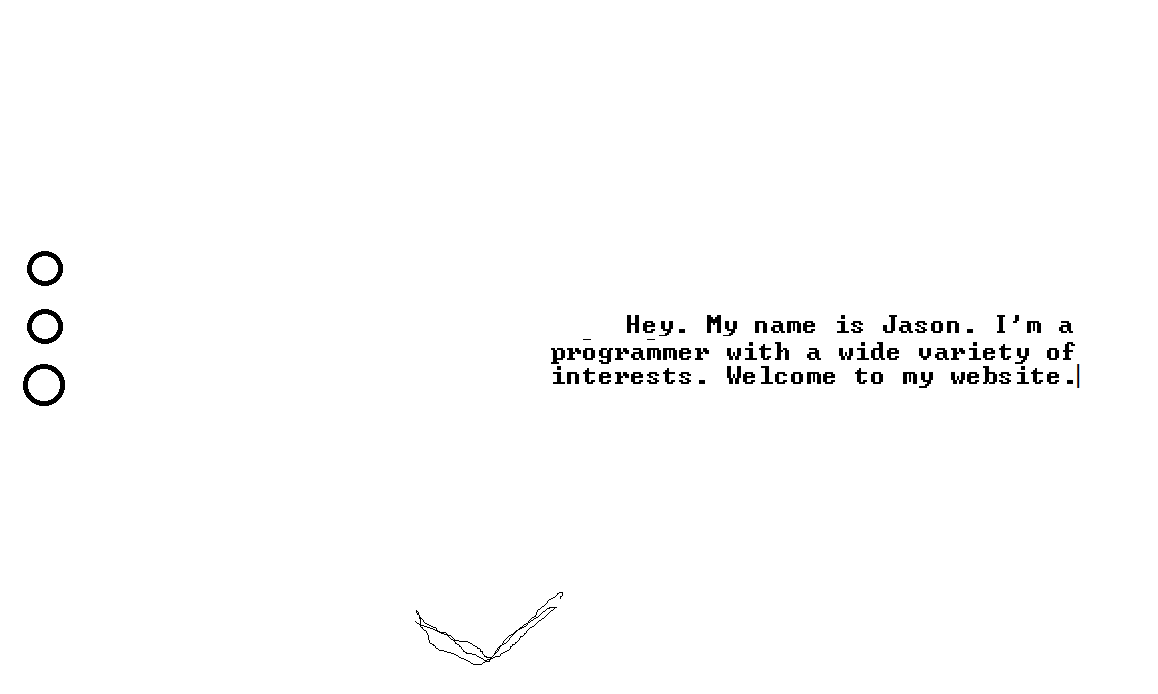
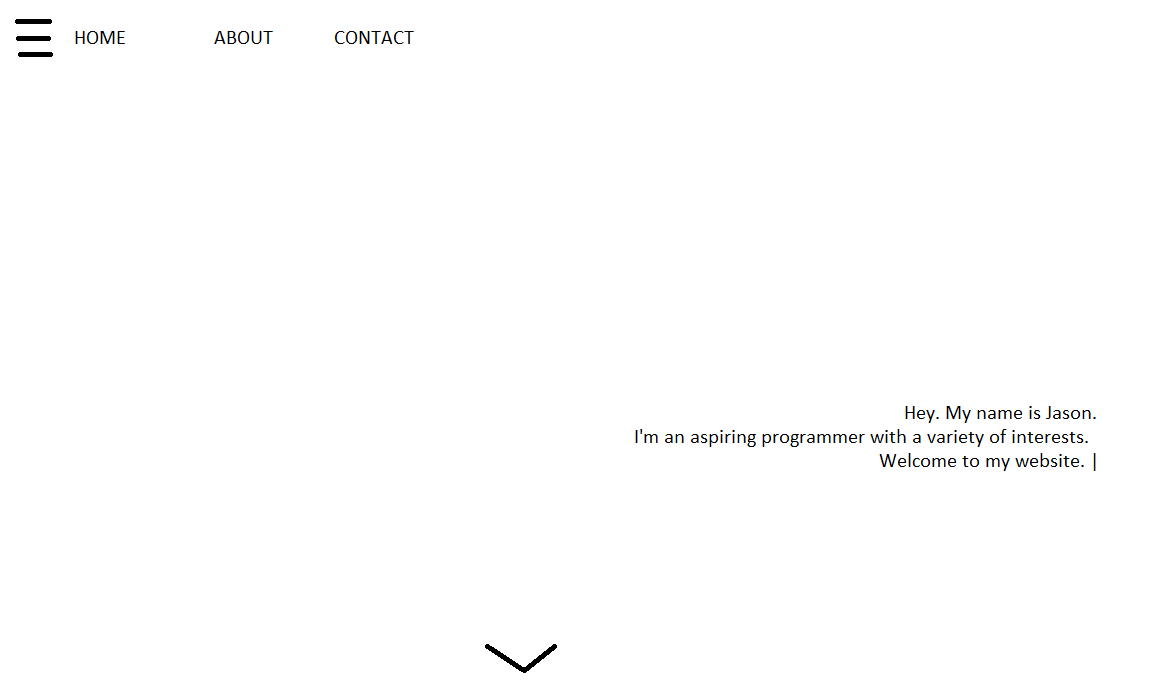
Began implementation of 'About Me' page

diff --git a/assets/script.js b/assets/script.js
@@ -1,6 +1,6 @@
 $(document).ready(function(){
 
-	// // //Chevron animation for the landing page.
+	//Chevron animation for the landing page.
 	setTimeout(function() {
 		$('.down-arrow').show();
 		$('.down-arrow').animate({opacity: 0.5},'slow');
@@ -17,17 +17,114 @@ $(document).ready(function(){
 				
 			}
 		});
-	},1500);
 
+		$('#about-footer').hover(function() {
+			if ($('.down-arrow').hasClass('down-arrow-active')) {
+				$('.down-arrow').removeClass('down-arrow-active');
+				$('.down-arrow').animate({opacity: 0.5},'fast');
+			} else {
+				setTimeout(function() {
+					$('.down-arrow').addClass('down-arrow-active');
+					$('.down-arrow').animate({opacity: 1.0},'fast');
+				},0);
+				
+			}
+		});
+	},500);
+
+	//Animation for footers
 	$('#landing-footer').click(function() {
 		$('html,body').animate({
 	       scrollTop: $('#about-container').offset().top
+	    }, 500);
+	});
+	$('#about-footer').click(function() {
+		$('html,body').animate({
+	       scrollTop: $('#experience-container').offset().top
+	    }, 500);
+	});
+	$('#experience-footer').click(function() {
+		$('html,body').animate({
+	       scrollTop: $('#contact-container').offset().top
+	    }, 500);
+	});
+	$('#contact-footer').click(function() {
+		$('html,body').animate({
+	       scrollTop: 0
 	    }, 500);
 	});
 
 	//Animate the text for the landing page.
 	var text = "Hey. My name is Jason.  <br />I'm an aspiring programmer with a variety of interests.  <br />Welcome to my website.  <br /> ";
 	animate_typed_text('#landing-text',text);
+
+	//Change the text of the boxes on the about page.
+	var cw = $('.about-box').height();
+	$('.about-box').css({'width':cw+'px'});
+
+	$('#about-box-ed').hover(function() {
+		$('#about-ed').text("Education");
+	});
+
+	$('#about-box-projs').hover(function() {
+		$('#about-projs').text("Projects");
+	});
+
+	$('#about-box-interests').hover(function() {
+		$('#about-interests').text("Interests");
+	});
+
+	$('#about-box-me').hover(function() {
+		$('#about-me').text("Me");
+	});
+
+	//Expand the "About" screen on click.
+	$('.about-box').click(function() {
+		console.log($(this).hasClass('.about-box-active'));
+		if ($('#about-top').css('margin-top') == "0px") {
+			//Not working
+			if ($(this).hasClass('.about-box-active')) {
+				$(this).removeClass('.about-box-active');
+			}
+			$('#about-expand').animate({opacity: 0.0},'slow');
+
+			setTimeout(function() {
+				$('#about-header').animate({opacity: 1.0},'slow');
+				$('#about-expand').hide();
+				$('#about-footer').show();
+				$('#about-footer').animate({opacity: 1.0},'slow');
+			},1000);
+			$('#about-top').animate({"margin-top": "9%"},'slow');
+			$('#about-bottom').animate({"margin-bottom":"9%"},'slow');	
+		} else {
+			//Not working
+			if (!$(this).hasClass('.about-box-active')) {
+				$(this).addClass('.about-box-active');
+			}
+			$('#about-top').animate({"margin-top": 0},'slow');
+			$('#about-bottom').animate({"margin-bottom":0},'slow');
+			$('#about-footer').animate({opacity: 0.0},'fast');
+			setTimeout(function() {
+				$('#about-header').animate({opacity: 0.0},'slow');
+				$('#about-expand').show();
+				$('#about-expand').animate({opacity: 1.0},'slow');
+				$('#about-footer').hide();
+			},1000);
+		}
+	});
+
+	$('#about-expand').click(function() {
+		if ($(this).hasClass('.about-box-active')) {
+			$(this).removeClass('.about-box-active');
+		}
+		$('#about-expand').animate({opacity: 0.0},'slow');
+		setTimeout(function() {
+			$('#about-header').animate({opacity: 1.0},'slow');
+			$('#about-expand').hide();
+		},1000);
+		$('#about-top').animate({"margin-top": "9%"},'slow');
+		$('#about-bottom').animate({"margin-bottom":"9%"},'slow');
+	});
 });
 
 function animate_typed_text(div,text) {

diff --git a/assets/style.css b/assets/style.css
@@ -14,12 +14,12 @@ background: #f7f5f2;
 
 #landing-text {
 	float: right;
-	width: 50%;
+	width: 100%;
 	text-align: right;
 	position: absolute;
-	right: 2.5%;
-	top: calc(50% - 80px);
-	font-size: 24px;
+	right: 15%;
+	top: calc(60% - 80px);
+	font-size: 36px;
 	white-space: pre;
 }
 
@@ -37,7 +37,7 @@ background: #f7f5f2;
 .down-arrow {
 	padding-left: 40%;
 	padding-right: 40%;
-	padding-top: 10%;
+	padding-top: 7.5%;
 	transition: 1s;
 	opacity: 0;
 	float: bottom;
@@ -54,8 +54,135 @@ background: #f7f5f2;
 /* CSS attributes for the about page--the seocnd page that is accessed. */
 #about-container {
 	display: inline-block;
-	height: 80%;
-	width: 80%;
+	position: relative;
+	height: 100%;
+	width: 100%;
 	background: #ffffff;
-	padding: 10%;
+}
+
+#about-header {
+	display: inline-block;
+	text-align: center;
+	margin-top: 1%;
+	height: 2%;
+	width: 100%;
+	font-size: 24px;
+}
+
+#about-top {
+	display: inline-block;
+	text-align: center;
+	margin-top: 9%;
+	height: 30%;
+	width: 100%;
+	padding-bottom: 1%;
+	transition: 1s;
+}
+
+#about-expand {
+	display: none;
+	width: 100%;
+	height: 30%;
+	opacity: 0.0;
+	background: #f7f5f2;
+}
+
+#about-bottom {
+	display: inline-block;
+	position: absolute;
+	text-align: center;
+	height: 30%;
+	margin-bottom: 7.5%;
+	width: 100%;
+	padding-top: 1%;
+	bottom: 0;
+	float: bottom;
+	transition: 1s;
+}
+
+.about-box {
+	display: inline-block;
+	position: relative;
+	text-align: center;
+	top: calc(50% - 130	px);
+	height: 90%;
+	margin-left: 2%;
+	margin-right: 2%;
+	transition: 1s;
+	cursor: pointer;
+}
+
+/* CSS attribute that forces a 1:1 aspect ratio for the about-box. */
+.about-box:before {
+	content: "";
+	display: block;
+	padding-top: 100%;
+	background: #000;
+}
+
+.about-box:hover {
+	opacity: 0.5 !important;
+	color: #ffffff !important;
+}
+
+.about-box-active {
+	opacity: 0.5;
+	color: #ffffff;
+}
+
+.content {
+	position: absolute;
+	top: calc(50% - 5px);
+	left: 0;
+	bottom: calc(50% + 5px);
+	right: 0;
+}
+
+#about-footer {
+	position: absolute;
+	width: 100%;
+	height: 20%;
+	text-align: center;
+	bottom: 0;
+	z-index: 100;
+	transition: 1s;
+	cursor: pointer;
+}
+
+/* CSS attributes for the experience page. */
+#experience-container {
+	display: inline-block;
+	position: relative;
+	height: 100%;
+	width: 100%;
+}
+
+#experience-footer {
+	position: absolute;
+	width: 100%;
+	height: 20%;
+	text-align: center;
+	bottom: 0;
+	z-index: 100;
+	transition: 1s;
+	cursor: pointer;
+}
+
+#contact-container {
+	display: inline-block;
+	position: relative;
+	height: 100%;
+	width: 100%;
+	background: #ffffff;
+}
+
+#contact-footer {
+	position: absolute;
+	width: 100%;
+	height: 20%;
+	text-align: center;
+	bottom: 0;
+	z-index: 100;
+	transition: 1s;
+	cursor: pointer;
 }

diff --git a/index.html b/index.html
@@ -18,8 +18,42 @@
 		</div>
 	</div>
 	<div id="about-container">
-		Hi.
+		<div id="about-header">
+			ABOUT ME
+		</div>
+		<div id="about-top">
+			<div class="about-box" id="about-box-ed">
+				<div class="content" id="about-ed"></div>
+			</div>
+			<div class="about-box" id="about-box-projs">
+				<div class="content" id="about-projs"></div>
+			</div>
+		</div>
+		<div id="about-expand">
+		</div>
+		<div id="about-bottom">
+			<div class="about-box" id="about-box-interests">
+				<div class="content" id="about-interests"></div>
+			</div>
+			<div class="about-box" id="about-box-me">
+				<div class="content" id="about-me"></div>
+			</div>
+		</div>
+		<div id="about-footer">
+			<img src="https://maxcdn.icons8.com/windows10/PNG/32/Arrows/angle_down-32.png" class="down-arrow" width="32">
+		</div>
 	</div>
-	
+	<div id="experience-container">
+		Hi
+		<div id="experience-footer">
+			<img src="https://maxcdn.icons8.com/windows10/PNG/32/Arrows/angle_down-32.png" class="down-arrow" width="32">
+		</div>
+	</div>
+	<div id="contact-container">
+		Allo
+		<div id="contact-footer">
+			<img src="https://maxcdn.icons8.com/windows10/PNG/32/Arrows/angle_up-32.png" class="down-arrow" width="32">
+		</div>
+	</div>
 </body>
 </html>
